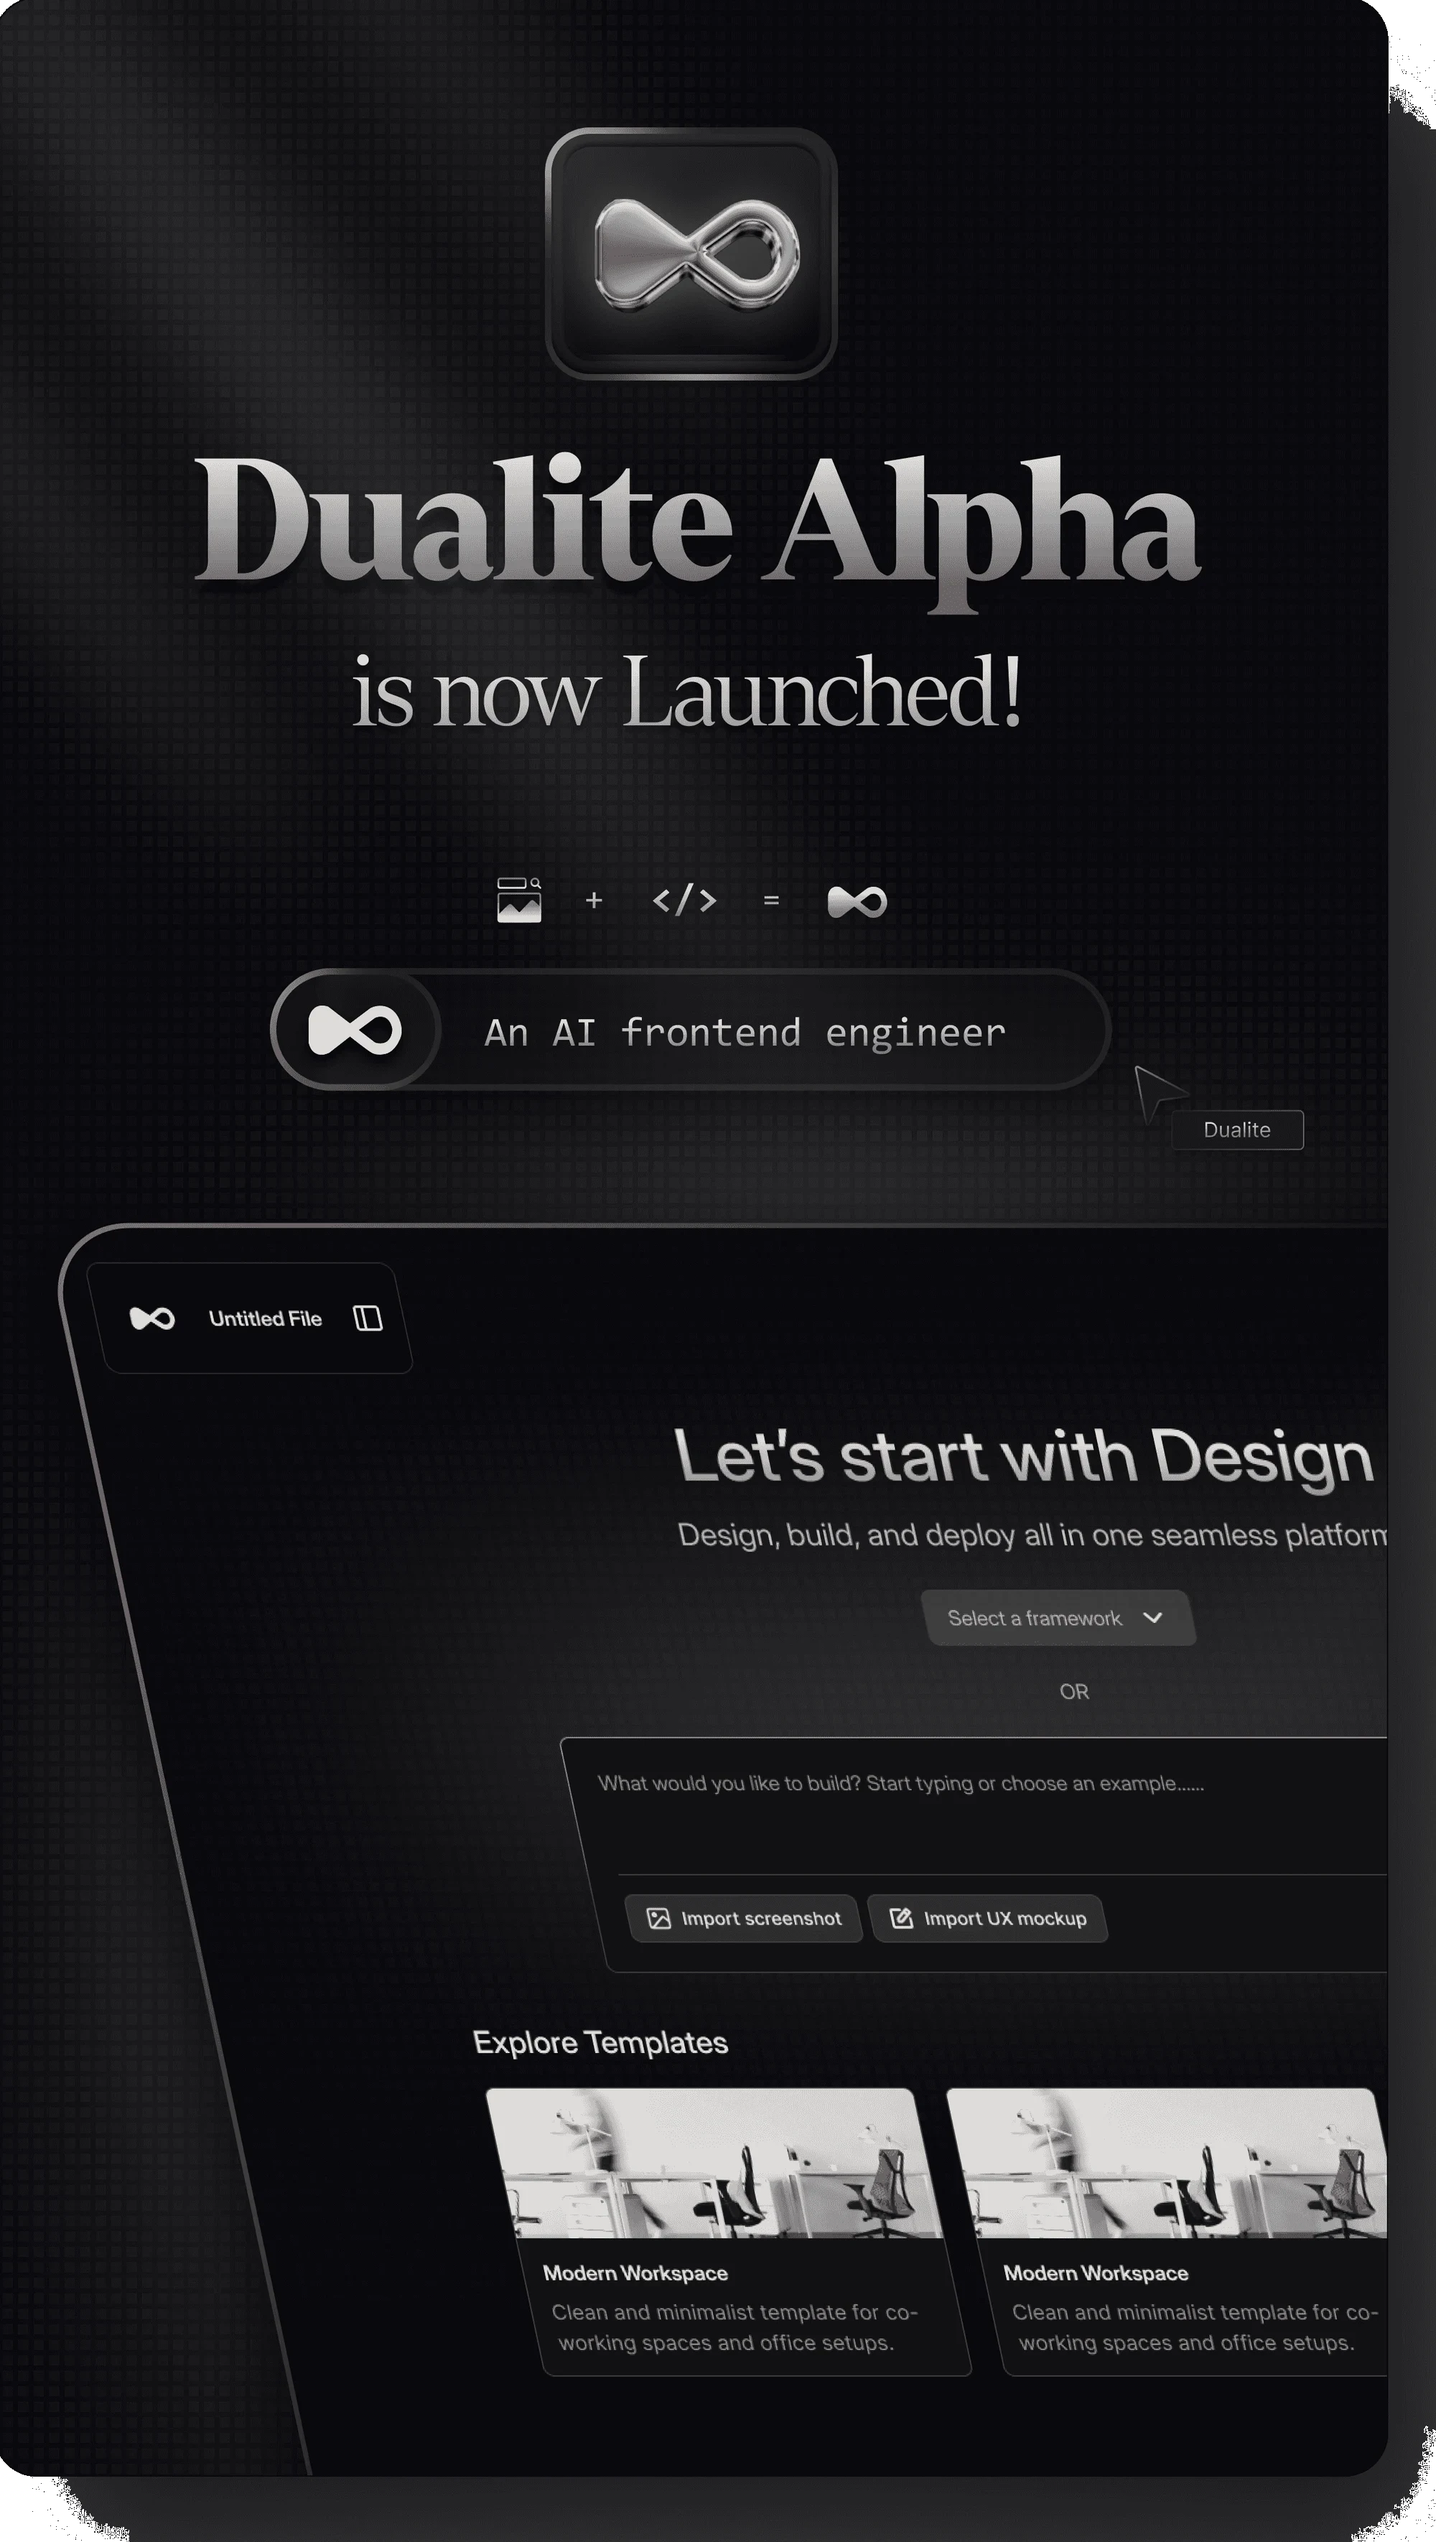
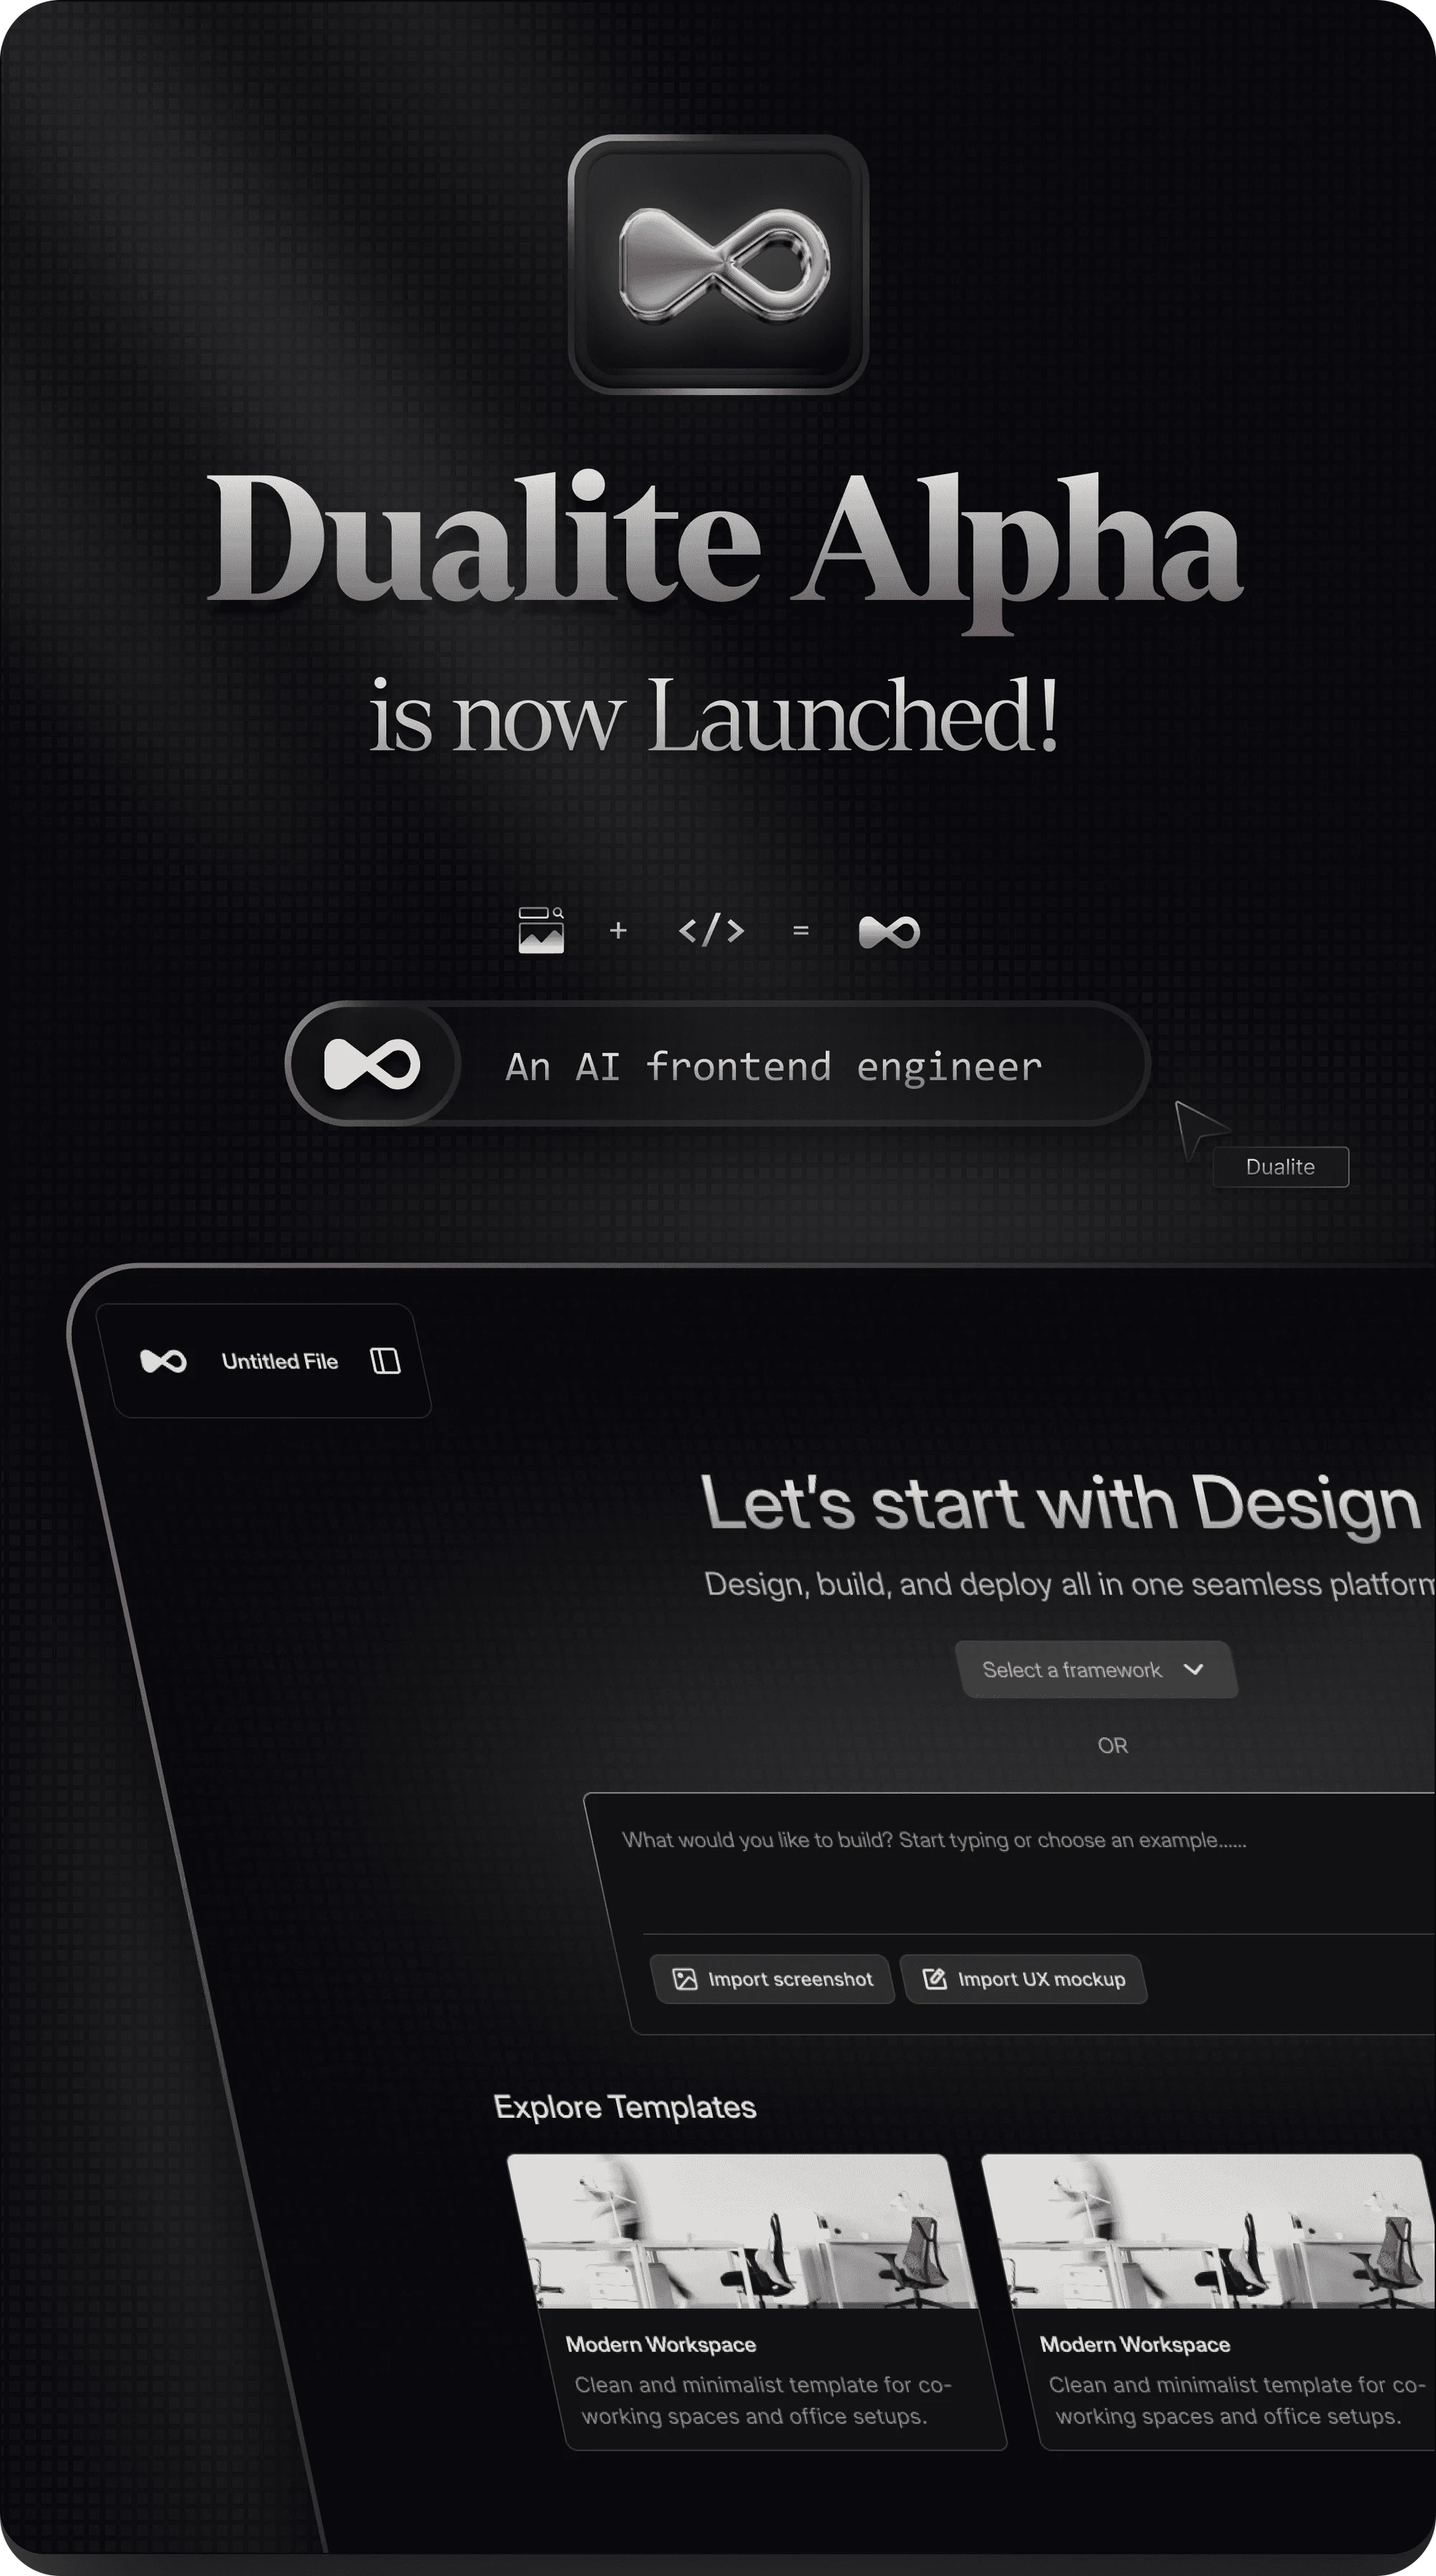
Dualite: clean re-cut of the Alpha launch card

diff --git a/src/app/work/dualite/page.tsx b/src/app/work/dualite/page.tsx
@@ -87,7 +87,7 @@ export default function Dualite() {
           {/* her line from the Framer page, word for word apart from the capital I */}
           <P>All of the illustration that I made for marketing team of Dualite.</P>
           <div className="mx-auto w-full max-w-[460px]">
-            <Shot {...d("alpha-launch", 2000, 3540, "Dualite Alpha is now launched: the launch creative with the app")} />
+            <Shot {...d("alpha-launch", 2000, 3586, "Dualite Alpha is now launched: the launch creative with the app")} />
           </div>
         </Section>
 

diff --git a/PROJECT-CONTEXT.md b/PROJECT-CONTEXT.md
@@ -808,3 +808,4 @@ _Sanskriti picked **A**, with the Fuji scene moved to the footer (see 8d)._
 - **2026-11-24:** About: **"Off the screen" section** (`src/components/about/OffScreen.tsx`) after the journey: label "Off the screen", H2 "Still making things *by hand*", her interests from her notes (paint, sketch, clay, rangoli, anime, movies, reading, cafe hopping, ramen), then loose pinned columns (2 phone / 3 desktop): clay koi pond + sunflowers, the bleeding-rose painting (Instagram bar and text box cropped off; caption from her own story text, "even the roses bleed sometimes"), cafe portrait ("cafe hopping"), her wall of paintings (pink Starry Night + mandala panels), and the beach silhouette (no caption). Journey additions: her **pen line sketch** in step 01, **Keploy swag** (T-shirt + stickers) in step 04. She says these are all the photos she has. Photos she showed only inline (no file reached the session, so not on the site): figurines shelf, second wall photo with Your Name poster, books + headphones, Spidey nails, cat/croc canvases, ramen-cat sketch, two "Design roles have plateaued" talk photos, clay magnets, pixel-art Pikachu/butterfly, Diwali rangoli.
 - **2026-11-24:** **Playground page `/playground`** (`src/app/playground/page.tsx`); the nav's Playground link now goes there (was `#playground`). Header from her Framer playground strip: label "Playground", H2 "A little bit of everything", "Products, experiments, interfaces, and ideas that made their way out of my Figma files." Then her pieces one after another at full column width in the white vibe-card frame (20px radius, 8px padding, soft shadow); **visuals only**, captions only on pieces with a live link. Tall pieces sit in **pairs** whose widths follow each image's aspect ratio (`flex: ratio 1 18px`), so both cards are exactly the same height; pairs stack on phones. Order: Little Lights video (caption + diwali-album.vercel.app link, "sound on!") · Mosaic · Mosaic close-up + PanDAO-in-Figma photo · TAB onboarding (Figma `cXPsekj2…` node 81:2, 2×, cropped) · TAB icon + Spotify "Espresso" record player (Portfolio file node 1537:2574, 2×) · learning player controls · eight money Christmas story + weather mood check-in (480px; she OK'd using it) · pixel-emoji onboarding screens. Assets in `public/assets/playground/`, served `unoptimized`. Videos use `LazyVideo` (`src/components/playground/LazyVideo.tsx`): muted loop, poster, loads and plays only near the screen. `diwali.mp4` is her 2:50 screen recording re-encoded to 1920px H.264 (26 MB, from 84 MB).
   - **Still to add when she sends the files** (her X posts; captions = her post lines): emoji app (Jitter export, no watermark), mood check-in video (replaces the still), Inkwork Press (+ inkwork-press.vercel.app), chat interfaces, pixel buddy for agents, whimsy on the internet, loading state, Spider-Verse cards (+ spider-verse-cards.netlify.app), file folder, an Aug 2025 post (no line given), Work Folder, Figma prototyping; plus the Spider-Verse card-on-phone photo. Re-encode videos the same way before adding.
+- **2026-11-24:** Dualite Alpha launch card re-cut (her report: it looked wrong): the first crop included part of the Framer drop shadow (grey band on the right/bottom, smudged corners). Now cut exactly at the card edges (brightness edge scan) with clean rounded corners (4.2% radius, transparent outside), 2000×3586. Kept the Framer version (greyscale template photos) rather than Figma "Instagram story - 1" (2:4), whose template photos are in colour.
